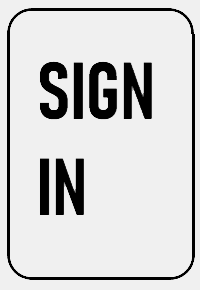
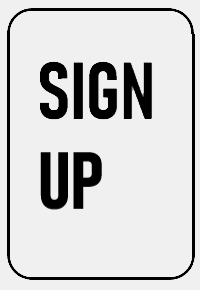
Login Complete

Changed region(s): [[0.18, 0.4966, 0.51, 0.7448]]

diff --git a/GUI.py b/GUI.py
@@ -7,6 +7,9 @@ from selenium import webdriver
 import json
 import re 
 import smtplib
+import random
+import string
+from email.message import EmailMessage
 regex = '^[a-z0-9]+[\._]?[a-z0-9]+[@]\w+[.]\w{2,3}$'
 h = 500; w = 700
 window = tkinter.Tk()
@@ -17,7 +20,6 @@ y = (hs/2) - (h/2)
 window.title("Unified Form Manager")
 window.minsize(height = h, width = w)
 window.geometry('%dx%d+%d+%d' % (w, h, x, y))
-PASS = "ferrarisf21"
 
 def Remove():
     widgets = window.winfo_children()
@@ -256,8 +258,6 @@ def Send_Mails():
     homebutton = tkinter.Button(text = "Go to home", command = on_home.MainMenu).pack(side = TOP, anchor = NE)
     loggedin = tkinter.Label(text = f"Logged in as {on_home.username}").pack(side = BOTTOM, anchor = SE)
 
-
-
 class Home:
     def HomePage(self):
         on_home.homebutton.destroy()
@@ -294,15 +294,18 @@ class Home:
 
 
     def CreatingAccount(self):
-        f=open("logindetails.json","r+")
-        contents = f.read()
-        js = json.loads(contents)
-        js.append({'username': self.username, 'password': self.password})
-        f.seek(0)       
-        f.write(json.dumps(js, indent=2))
-        f.truncate()
-        f.close()
-        self.MainMenu()
+        if self.passwordwidget.get(1.0,END) != self.confirm_passwordwidget.get(1.0, END):
+            self.different_passwords = tkinter.Label(text = "Please enter the password entered earlier : ", fg = "red").place(x = 310, y = 400)
+        else:
+            f=open("logindetails.json","r+")
+            contents = f.read()
+            js = json.loads(contents)
+            js.append({'username': self.username, 'password': self.passwordwidget.get(1.0, END).strip()})
+            f.seek(0)       
+            f.write(json.dumps(js, indent=2))
+            f.truncate()
+            f.close()
+            self.MainMenu()
     
     def CheckingForAccount(self):
         f = open("logindetails.json","r+")
@@ -328,10 +331,44 @@ class Home:
 
         # Need to create a button for Forgot Password
 
+    def Password_Confirmation(self):
+        if self.password != self.verificationwidget.get(1.0, END).strip():
+            self.verificationwidget.config(font = ("red"))
+            self.incorrectid = tkinter.Label(text = "Incorrect Authentication id", font = ("TimesNewRoman"), fg = "red").place(x = 310, y = 360)
+        else:
+            self.userdetails_img = Image.open("Images/Signup Page 2.png")
+            self.userdetails_img = ImageTk.PhotoImage(self.userdetails_img)
+            self.user = tkinter.Label(image = self.userdetails_img, borderwidth = 0)
+            self.user.place(x = 262, y = 100)
+            self.passwordwidget = tkinter.Text(height = 1, width = 25, font = ("TimesNewRoman"))
+            self.passwordwidget.place(x = 310, y  = 200)
+            self.confirm_passwordwidget = tkinter.Text(height = 1, width = 25, font = ("TimesNewRoman"))
+            self.confirm_passwordwidget.place(x = 310, y  = 310)           
+            self.next = tkinter.Button(text = "Next", font = (20), borderwidth = 0, command = on_home.CreatingAccount)
+            self.next.place(x = 580, y = 340)
+
     def Submit_NewUser(self):
+        self.homebutton.destroy()
+        app.destroy(); login_button.destroy()
         self.username = self.usernamewidget.get(1.0, END).strip()
-        self.password = self.passwordwidget.get(1.0, END).strip()
-        self.CreatingAccount()
+        self.lower=string.ascii_lowercase
+        self.upper=string.ascii_uppercase
+        self.num=string.digits
+        all = self.lower + self.upper + self.num   #+ symbols
+        temp=random.sample(all,5)
+        self.password="".join(temp)
+        self.userdetails_img = Image.open("Images/Signup Page 3.png")
+        self.userdetails_img = ImageTk.PhotoImage(self.userdetails_img)
+        self.user = tkinter.Label(image = self.userdetails_img, borderwidth = 0)
+        self.user.place(x = 262, y = 100)
+        self.verificationwidget = tkinter.Text(height = 1, width = 25, font = ("TimesNewRoman"))
+        self.verificationwidget.place(x = 310, y  = 270)
+        self.next = tkinter.Button(text = "Next", font = (20), borderwidth = 0, command = on_home.Password_Confirmation)
+        self.next.place(x = 580, y = 330)
+        with smtplib.SMTP("smtp.gmail.com") as server:
+            server.starttls()
+            server.login('testproject194@gmail.com', 'testproject!@#$')
+            server.sendmail(from_addr = 'testproject194@gmail.com', to_addrs = self.username, msg = f"Subject : Authentication Code\n\nAuthentication Code is {self.password}")
 
     def Submit_Login(self):
         self.username = self.usernamewidget.get(1.0, END).strip()
@@ -341,18 +378,17 @@ class Home:
     def Clicked_Signin(self):
         self.homebutton.destroy()
         app.destroy(); login_button.destroy()
-        self.userdetails_img = Image.open("Images/UserDetails.png")
+        self.userdetails_img = Image.open("Images/Signup Page 1.png")
         self.userdetails_img = ImageTk.PhotoImage(self.userdetails_img)
         self.user = tkinter.Label(image = self.userdetails_img, borderwidth = 0)
         self.user.place(x = 262, y = 100)
         self.usernamewidget = tkinter.Text(height = 1, width = 25, font = ("TimesNewRoman"))
         self.usernamewidget.place(x = 310, y  = 200)
-        self.passwordwidget = tkinter.Text(height = 1, width = 25, font = ("TimesNewRoman"))
-        self.passwordwidget.place(x = 310, y  = 310)
         self.next = tkinter.Button(text = "Next", font = (20), borderwidth = 0, command = self.Submit_NewUser)
-        self.next.place(x = 590, y = 340)
+        self.next.place(x = 580, y = 330)
         self.homebutton = tkinter.Button(text = "Go to home", command = on_home.HomePage)
         self.homebutton.pack(side = TOP, anchor = NE)
+
     def Clicked_Login(self):
         self.homebutton.destroy()
         app.destroy(); signin_button.destroy()
@@ -368,6 +404,7 @@ class Home:
         self.next.place(x = 390, y = 340)
         self.homebutton = tkinter.Button(text = "Go to home", command = on_home.HomePage)
         self.homebutton.pack(side = TOP, anchor = NE)
+
 on_home = Home()
 
 signin_img = Image.open("Images/Signin.png")
@@ -387,12 +424,4 @@ login_button.place(x = 462, y = 100)
 
 on_home.homebutton = tkinter.Button(text = "Go to home", command = on_home.HomePage)
 
-# def track(event):
-#     print(event.x, event.y)
-# window.bind("<Motion>",track)
-
-
 window.mainloop()
-
-
-

diff --git a/signUpEmailverification.py b/signUpEmailverification.py
@@ -31,7 +31,7 @@ def password_generator():
     upper=string.ascii_uppercase
     num=string.digits
 
-    all=lower+upper+num   #+symbols
+    all=lower+upper+num   #+ symbols
     temp=random.sample(all,5)
     password="".join(temp)
     return(password)
